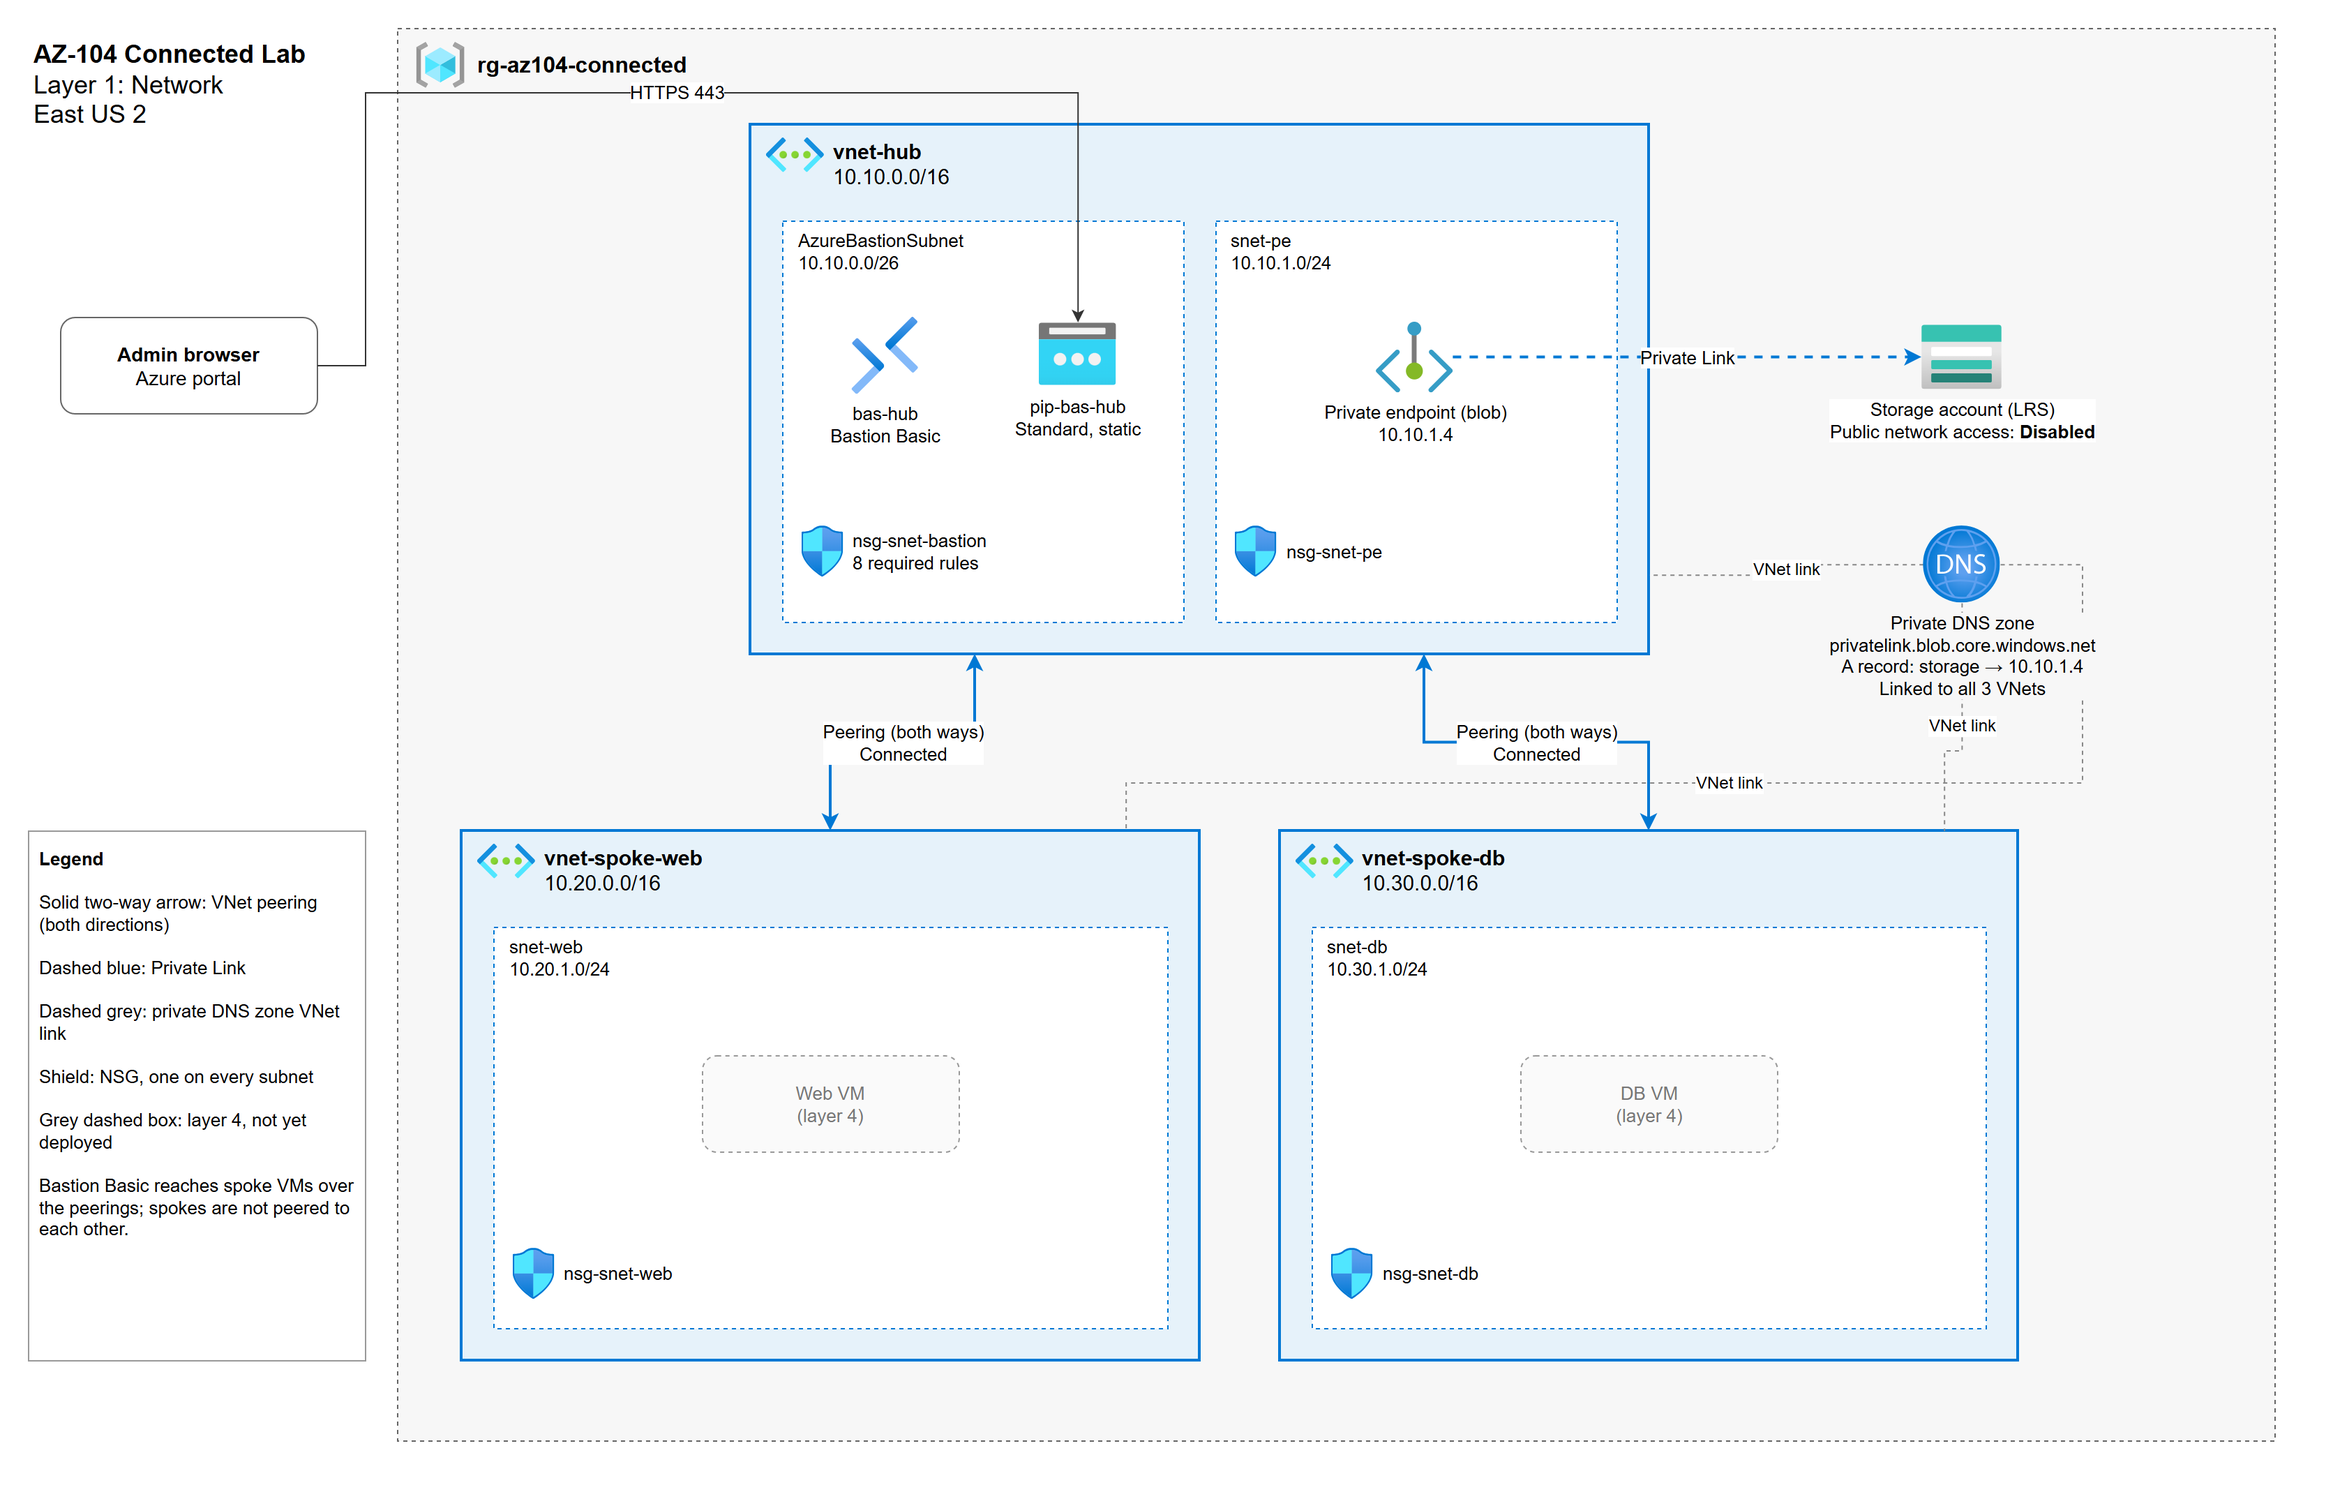
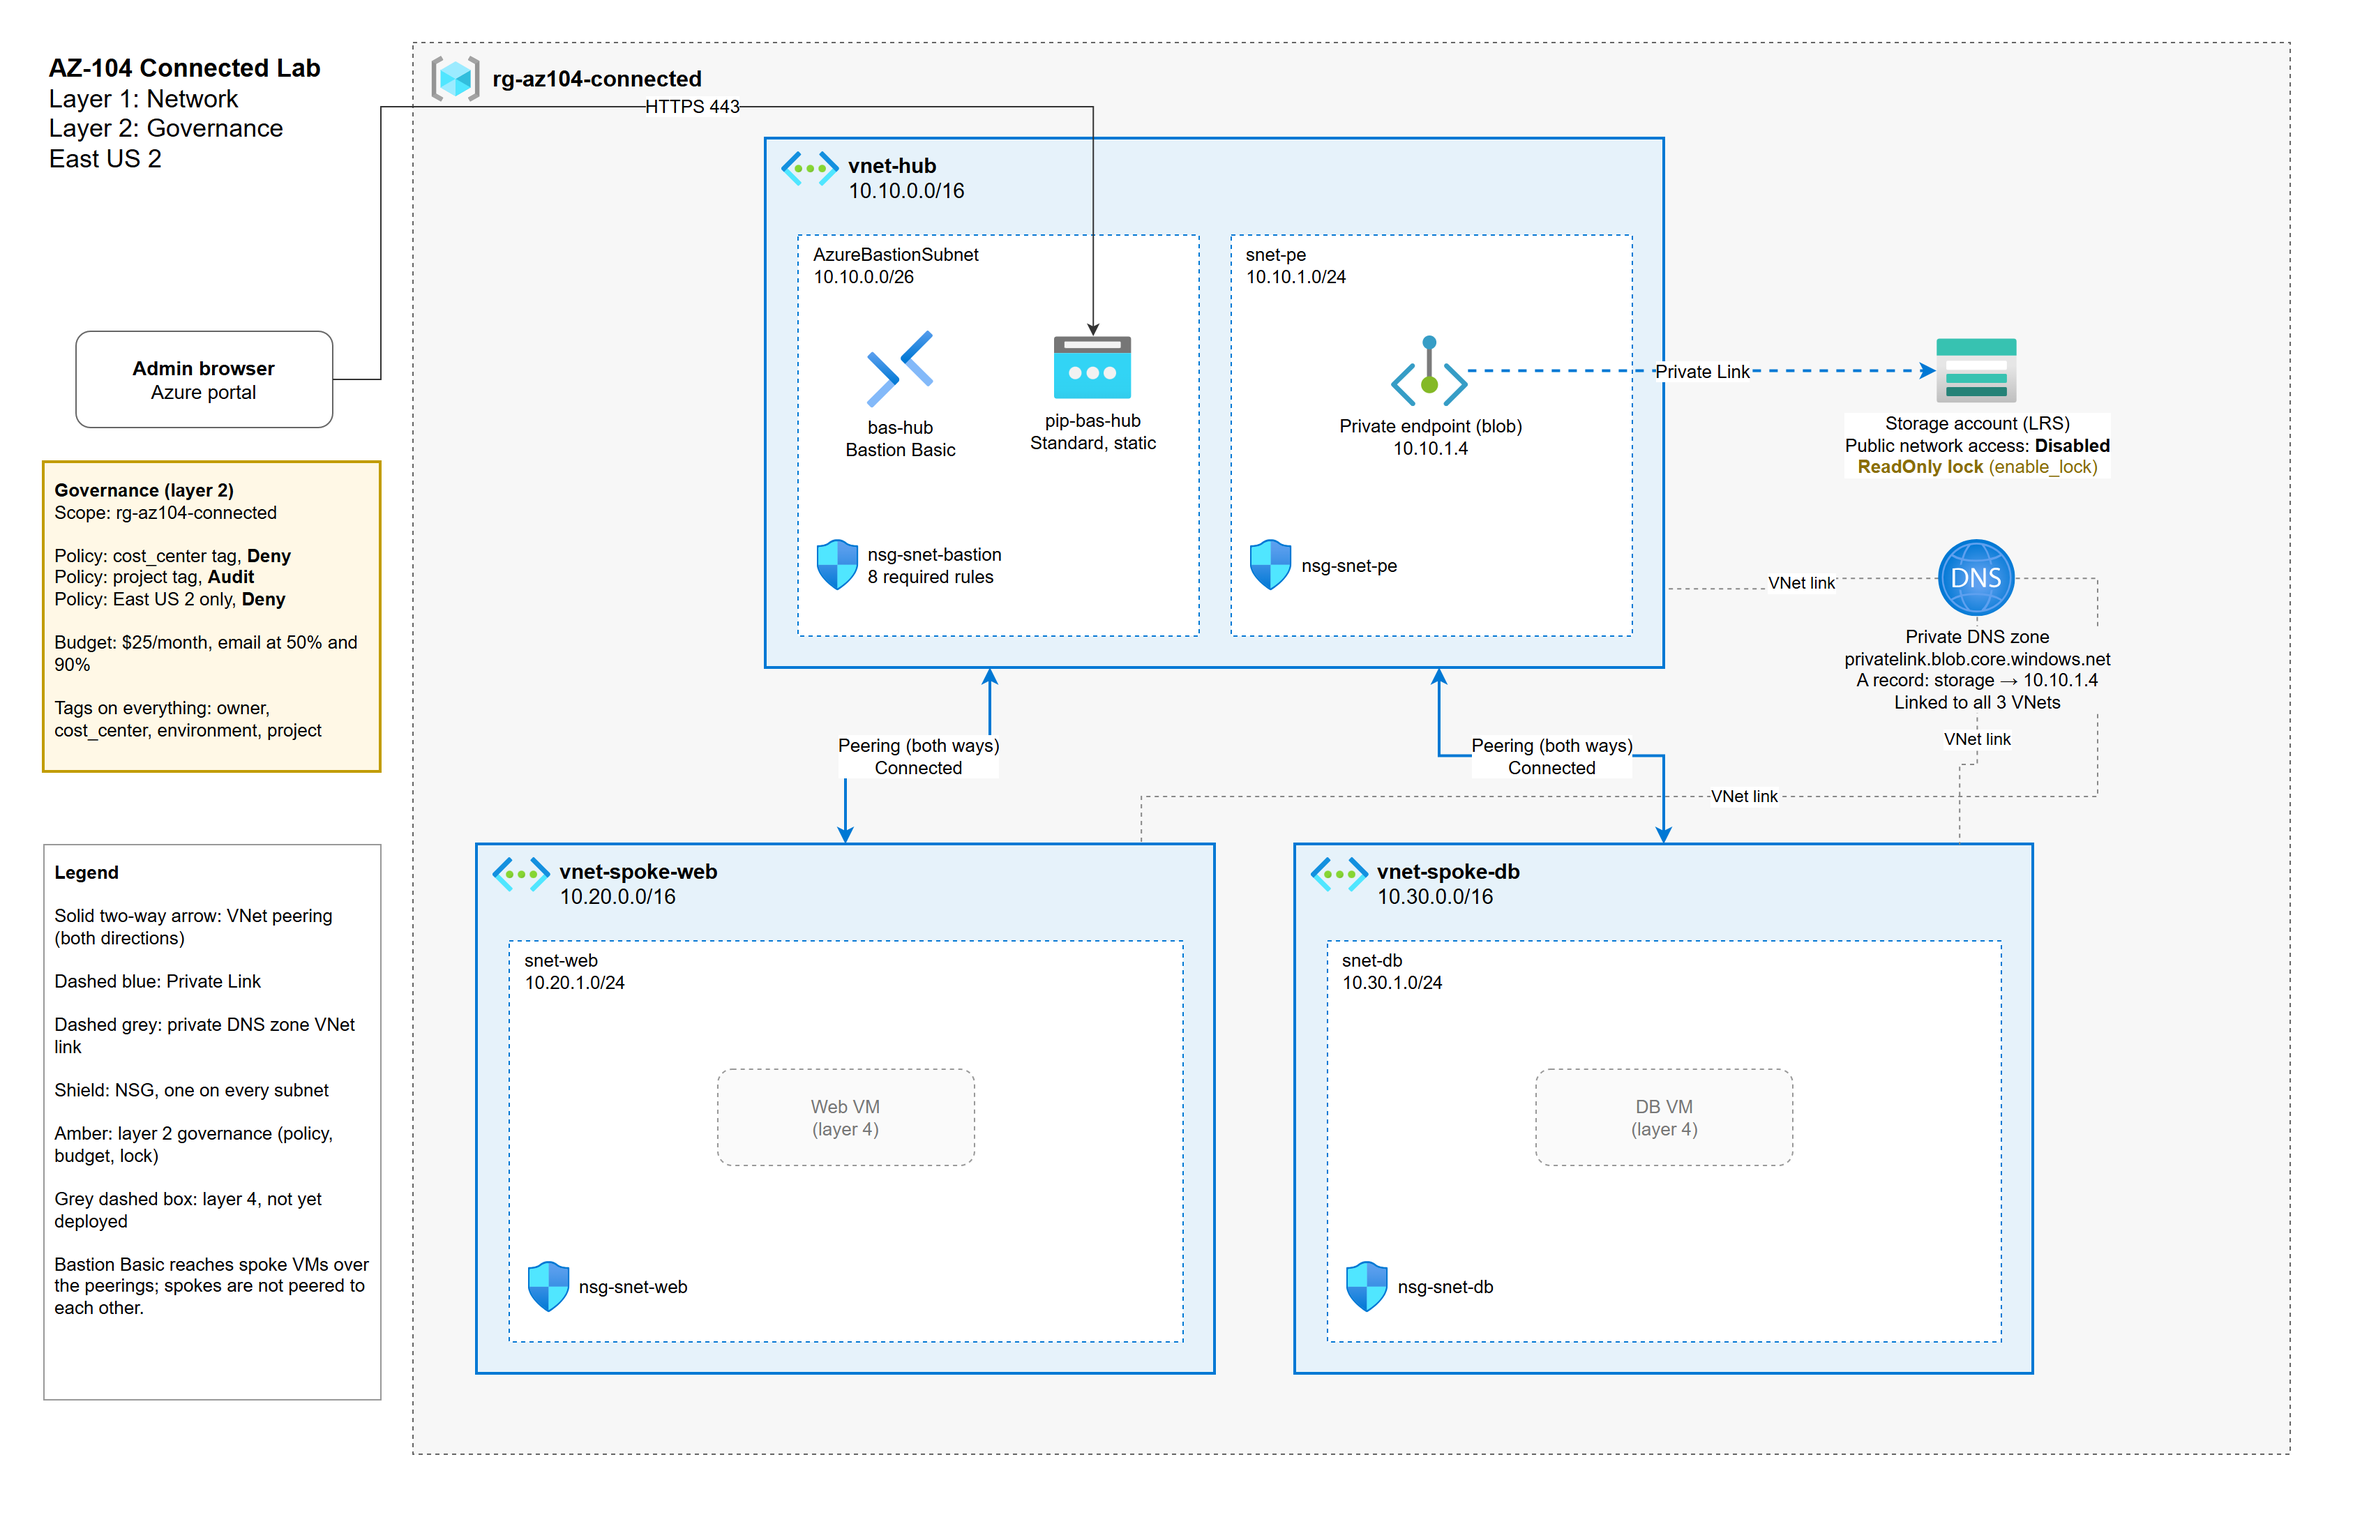
Layer 2: governance and cost.

diff --git a/README.md b/README.md
@@ -1,7 +1,8 @@
 # AZ-104 Connected Lab
 
 A secure hub-and-spoke Azure network, built with Terraform, layer by layer.
-Layer 1 (network) is complete. See [PLAN.md](PLAN.md) for the full build order.
+Layer 1 (network) and layer 2 (governance and cost) are complete. See
+[PLAN.md](PLAN.md) for the full build order.
 
 ## Problem statement
 
@@ -19,7 +20,7 @@ network as code so every change is a reviewed `terraform plan`.
 
 ## Architecture
 
-![Layer 1 architecture](docs/architecture.png)
+![Architecture, layers 1 and 2](docs/architecture.png)
 
 Source: [docs/architecture.drawio](docs/architecture.drawio)
 
@@ -53,8 +54,73 @@ Source: [docs/architecture.drawio](docs/architecture.drawio)
 | Storage access | Private endpoint | Service endpoint | A service endpoint keeps the storage account on its public endpoint and only restricts which subnets may call it. A private endpoint gives it a private IP inside the VNet and lets public access be switched off entirely, which is what auditors in regulated industries expect. |
 | Traffic filtering | An NSG on every subnet | NSGs only where VMs exist, or on NICs | Every subnet has an explicit, auditable policy from day one, including subnets that are empty today. Subnet-level NSGs are one rule set per tier instead of one per NIC. |
 
+## Layer 2: governance and cost
+
+Layer 1 made the network repeatable. Layer 2 makes the rules around it enforceable:
+what every resource must carry, where it may live, what it may cost, and what nobody
+may change. All of it is in [governance.tf](governance.tf).
+
+| Control | Scope | Effect | What it does |
+|---|---|---|---|
+| Required tags | Every resource (Terraform) | Plan fails | A validation on `var.tags` fails the plan unless `owner`, `cost_center`, `environment` and `project` are present and non-empty. |
+| Require `cost_center` tag | `rg-az104-connected` | **Deny** | Azure refuses to create or update any taggable resource without it. |
+| Require `project` tag | `rg-az104-connected` | **Audit** | The resource is created, but shows as non-compliant. |
+| Allowed locations | `rg-az104-connected` | **Deny** | East US 2 only. Global resources such as private DNS zones are exempt. |
+| Budget | `rg-az104-connected` | Email | $25 a month, alerts on actual cost at 50% and 90%. |
+| Lock | Storage account | ReadOnly | Blocks every write, and every POST, on the storage account. Toggled by `enable_lock`. |
+
+Both tag rules use one custom policy definition with the effect as a parameter,
+assigned twice. The built-in "Require a tag on resources" hardcodes Deny, so it can't
+serve the Audit assignment. Allowed locations uses the built-in definition.
+
+The budget alert email lives only in `terraform.tfvars`, which is gitignored. The
+variable is marked `sensitive`, so the address never appears in plan output either.
+
+### Testing it
+
+Each test ran against the deployed resource group.
+
+| Test | Result |
+|---|---|
+| Create an NSG without `cost_center` | `RequestDisallowedByPolicy`: "Every resource in this resource group needs a cost_center tag." |
+| Create an NSG in West US 2, all tags present | `RequestDisallowedByPolicy`: "Resources in this resource group may only be deployed to: eastus2." |
+| Create `nsg-audit-test` with `cost_center` but no `project` | Created. The Audit assignment flags it: 14 of 15 compliant. |
+| `az storage account keys list` with the lock on | `ScopeLocked`. Listing keys is a POST, and ReadOnly blocks it. With the lock off, the same command returns `key1` and `key2`. |
+
+The denial messages are the assignments' own `non_compliance_message` text, so the
+person who hits the policy is told how to fix it, not just that they failed.
+
+### What the lock broke
+
+The lock did its job, and it also stopped Terraform:
+
+- **`terraform plan` fails while the lock is on.** The azurerm provider calls
+  `listKeys` when it reads the storage account, and gets `409 ScopeLocked`. Removing
+  the lock means planning with `-refresh=false -var enable_lock=false`.
+- **It blocked a change to a different resource.** On the first apply, the lock and a
+  tag update on the private endpoint ran in parallel. Updating a private endpoint
+  writes a `privateEndpointConnectionProxies` object under the storage account, so the
+  lock rejected it. The lock now `depends_on` the private endpoint, so a fresh build
+  creates it last. Any later change to the endpoint still needs the lock lifted first.
+
 ## What I learned
 
+- **Policy effects decide what kind of control you have.** Deny is a gate: the
+  request never lands. Audit is a report: the resource is created and shows up red in
+  compliance. Assigning the same rule twice, once with each effect, makes the
+  difference visible.
+- **A ReadOnly lock means no POST, not just no edits.** Listing keys changes nothing,
+  but it's a POST, so the lock blocks it, and so does Terraform's own refresh. A
+  lock that's on blocks the tool that put it there.
+- **A lock reaches past the resource it sits on.** Locking the storage account
+  blocked a tag update on the private endpoint, because the endpoint writes a
+  connection object under the storage account. Terraform's parallelism hid that until
+  the two resources raced.
+- **Tag policy catches resources Azure creates for you.** The private endpoint's NIC
+  is created by Azure, copies the endpoint's tags once at creation, and isn't managed
+  by Terraform. Adding `cost_center` later reached the endpoint but never the NIC, so
+  the NIC is still non-compliant. Deny only blocks new writes, so nothing broke, but
+  it shows up in every compliance report.
 - **Bastion Developer can't reach VMs across peering.** I started with the free
   Developer tier, then found it only connects to VMs in its own VNet. With Bastion in
   the hub and the VMs in the spokes, that would never work, so I switched to Basic.
@@ -87,6 +153,10 @@ East US 2 list prices, 730 hours a month, from the Azure Retail Prices API
 | **Total with Bastion** | | **≈ $150** |
 | **Total with Bastion off** | | **≈ $8** |
 
+Layer 2 adds nothing to the bill: Azure Policy assignments, budgets, tags and
+resource locks are free. During this build Bastion was off (`enable_bastion = false`),
+so the lab ran at about $8 a month.
+
 Usage charges come on top and are pennies for a lab: peering at $0.01/GB each way,
 private endpoint processing at $0.01/GB, storage by the GB, DNS at $0.40 per
 million queries.
@@ -109,16 +179,20 @@ Prerequisites: Terraform 1.9+, Azure CLI, an Azure subscription.
 
 ```powershell
 az login
-cp terraform.tfvars.example terraform.tfvars   # then set subscription_id
+cp terraform.tfvars.example terraform.tfvars   # then set subscription_id and budget_alert_emails
 terraform init
-terraform plan -out layer1.tfplan              # review before anything changes
-terraform apply layer1.tfplan                  # Bastion takes about 10 minutes
+terraform plan -out lab.tfplan                 # review before anything changes
+terraform apply lab.tfplan                     # Bastion takes about 10 minutes
 ```
 
-Destroy everything this project created:
+Destroy everything this project created. The ReadOnly lock has to come off first, and
+with the lock on, Terraform can't refresh the storage account, so that plan skips the
+refresh:
 
 ```powershell
-terraform destroy
+terraform plan -refresh=false -var enable_lock=false -out unlock.tfplan
+terraform apply unlock.tfplan
+terraform destroy -var enable_lock=false
 ```
 
 State is local and gitignored for now; it moves to a remote backend in layer 6.
@@ -141,6 +215,24 @@ addresses are masked.
 6. **Network Watcher topology:** the hub, both spokes and Bastion
    ![Topology](docs/screenshots/06-network-topology.png)
 
+Layer 2, taken after the governance apply:
+
+7. **Policy compliance at the resource group:** the three layer 2 assignments.
+   cost_center shows 2 non-compliant: the private endpoint and its NIC. The ReadOnly
+   lock blocked the private endpoint's tag update, and the compliance scan ran before
+   the relock apply fixed it. The NIC stays non-compliant (see What I learned).
+   "ASC Default" is Defender for Cloud's built-in assignment, inherited from the
+   subscription; Terraform did not create it.
+   ![Policy assignments](docs/screenshots/07-policy-assignments.png)
+8. **Audit in action:** `nsg-audit-test` has no `project` tag. It was created anyway
+   and is flagged non-compliant, 14 of 15 compliant.
+   ![Audit compliance](docs/screenshots/08-policy-compliance-audit.png)
+9. **Budget:** $25 a month, resetting monthly, with alerts on actual cost at 50% and
+   90%. The recipient address is masked.
+   ![Budget](docs/screenshots/09-budget.png)
+10. **Lock:** the ReadOnly lock on the storage account.
+    ![Storage lock](docs/screenshots/10-storage-lock.png)
+
 The full apply log is in [docs/apply-output-layer1.txt](docs/apply-output-layer1.txt)
 (subscription ID redacted).
 
@@ -152,8 +244,13 @@ The full apply log is in [docs/apply-output-layer1.txt](docs/apply-output-layer1
 - **Separate subscriptions.** Put the hub and each spoke in its own subscription
   under an Azure Landing Zone management group structure, for blast radius and
   billing.
-- **Enforce, don't just configure.** Use Azure Policy to deny public IPs on NICs,
-  require private endpoints for PaaS, and require tags (layer 2 starts this).
+- **Enforce, don't just configure.** Assign policy at a management group, not a
+  resource group, so new subscriptions inherit it. Add rules that deny public IPs on
+  NICs and require private endpoints for PaaS, and use Modify policies to inherit tags
+  from the resource group, so platform-created resources like the private endpoint's
+  NIC don't fall out of compliance.
+- **Budgets that act.** Route budget alerts to an action group, not just email, so
+  crossing a threshold can page someone or trigger automation.
 - **Remote state and a pipeline.** State in a locked storage backend; changes only
   through GitHub Actions with OIDC, plan review and manual approval (layer 6).
 - **Hybrid connectivity.** ExpressRoute or VPN gateway in the hub, with Azure DNS
@@ -170,12 +267,16 @@ Bastion Basic and a blob private endpoint, two spokes peered to the hub in both
 directions but not to each other, an NSG on every subnet, and a private DNS zone
 linked to all three VNets. The storage account has public network access disabled.
 Bastion sits behind a boolean so the expensive part can be removed without touching
-the rest of the network.
+the rest of the network. Layer 2 adds resource-group policy (cost_center tag Deny,
+project tag Audit, East US 2 only Deny), a $25 monthly budget with 50% and 90% alerts,
+and a toggleable ReadOnly lock on the storage account.
 
 **For managers.** The network a regulated workload would sit on is now code. It
 deploys the same way every time, every change is reviewed before it happens, and the
 whole environment can be torn down in minutes. It costs about $150 a month while
-running and about $8 with remote access switched off between sessions.
+running and about $8 with remote access switched off between sessions. Rules are now
+enforced, not just written down: untagged or out-of-region resources are refused, and
+a budget emails before spend gets out of hand.
 
 **For executives.** Servers and data in this design are unreachable from the
 internet. The only door is a managed Microsoft service, and the data store

diff --git a/PLAN.md b/PLAN.md
@@ -33,10 +33,13 @@ None of these overlap the old lab's 10.0.0.0/16.
 - Storage account with a blob private endpoint in the hub, and the
   `privatelink.blob.core.windows.net` private DNS zone linked to all three VNets
 
-### 2. Governance and cost
-- Tags on everything (a `tags` variable is wired in from layer 1; layer 2 enforces it)
-- Budget on the resource group with alert thresholds
-- Azure Policy assignments (e.g. require tags, allowed locations)
+### 2. Governance and cost (done 2026-11-03)
+- Tags on everything: `owner`, `cost_center`, `environment`, `project`, enforced by a
+  variable validation
+- Budget on the resource group: $25/month, email alerts at 50% and 90%
+- Azure Policy at the resource group: cost_center tag (Deny), project tag (Audit),
+  allowed locations East US 2 (Deny)
+- ReadOnly lock on the storage account behind `enable_lock`
 
 ### 3. Identity
 - User-assigned managed identity
